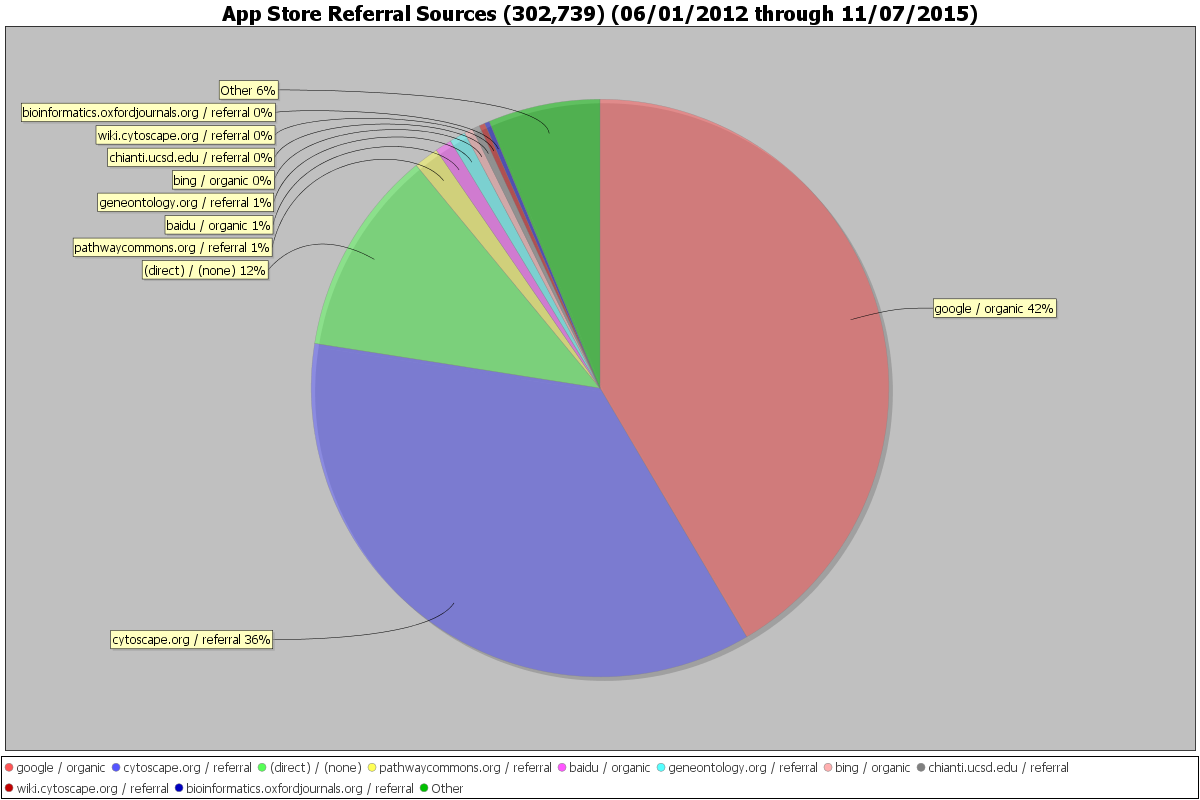
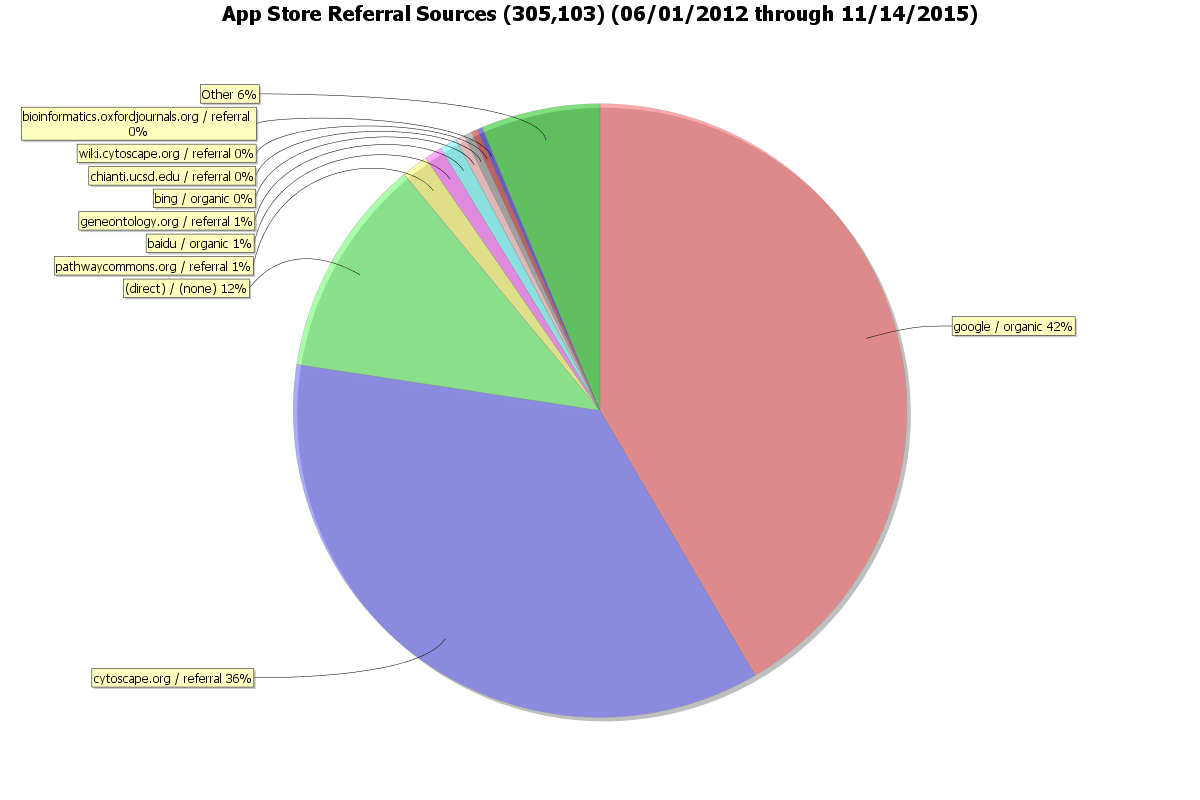
Merge origin/master
Conflicts:
	GAVisualizer/src/gavisualizer/GAVisualizer.java
	GAVisualizer/src/gavisualizer/GoogleApiManager.java

diff --git a/GAVisualizer/src/gavisualizer/LineChart.java b/GAVisualizer/src/gavisualizer/LineChart.java
@@ -11,6 +11,8 @@ import java.io.IOException;
 import java.awt.BasicStroke;
 import java.awt.Color;
 import java.awt.Dimension;
+import java.awt.Paint;
+import java.util.List;
 
 import org.jfree.chart.ChartFactory;
 import org.jfree.chart.ChartPanel;
@@ -22,6 +24,7 @@ import org.jfree.chart.renderer.category.LineAndShapeRenderer;
 import org.jfree.data.category.CategoryDataset;
 import org.jfree.data.category.DefaultCategoryDataset;
 import org.jfree.chart.ChartUtilities;
+import org.jfree.chart.renderer.AbstractRenderer;
 
 /**
  *
@@ -54,11 +57,39 @@ public class LineChart implements IChart {
             false                      // urls
         );
 
-        chart.setBackgroundPaint(Color.white);
+        chart.setBackgroundPaint(Color.white);  
 
         final CategoryPlot plot = (CategoryPlot) chart.getPlot();
-        plot.setBackgroundPaint(Color.lightGray);
-        plot.setRangeGridlinePaint(Color.white);
+        plot.setBackgroundPaint(Color.white);
+        plot.setRangeGridlinePaint(Color.lightGray);
+        plot.setOutlinePaint(Color.white);
+        
+        // customize the line and the stroke width of the series
+        final LineAndShapeRenderer renderer = (LineAndShapeRenderer) plot.getRenderer();
+        ((AbstractRenderer)renderer).setAutoPopulateSeriesStroke(false);
+        renderer.setBaseStroke(new BasicStroke(3));
+        
+        // include dashed lines if necessary
+        List<String> rows = _dataset.getRowKeys();
+        if(rows.get(rows.size()-1).endsWith("Downloads"))
+        {
+            int start = _dataset.getRowCount() / 2;
+            int init = 0;
+            while(start <= _dataset.getRowCount())
+            {
+                renderer.setSeriesStroke(start, 
+                        new BasicStroke(
+                        3, BasicStroke.CAP_ROUND, BasicStroke.JOIN_ROUND, 
+                        1.0f, new float[] {10.0f, 6.0f}, 0.0f
+                        ));
+                Paint p = renderer.getItemPaint(init, 1);
+                renderer.setSeriesPaint(start, p);
+                init++;
+                start++;
+            }
+        } 
+
+        plot.setRenderer(renderer);
 
         // customise the range axis...
         final NumberAxis rangeAxis = (NumberAxis) plot.getRangeAxis();

diff --git a/GAVisualizer/src/gavisualizer/GAVisualizer.java b/GAVisualizer/src/gavisualizer/GAVisualizer.java
@@ -142,7 +142,6 @@ public class GAVisualizer {
         }
     }
 
-    //NOTE! I created one method for this so we don't repeat it unnecessarily (George) 
     private static PieDataset createPieDataset(GaData raw)
     {
         DefaultPieDataset result = new DefaultPieDataset();
@@ -306,7 +305,6 @@ public class GAVisualizer {
         return "Top App Store Attractions by Category (" + getTotal(raw) + ") (" + formatDate(raw.getQuery().getStartDate()) + " through " + formatDate(raw.getQuery().getEndDate()) + ")";
     }
     
-    //NOTE! I added this to reduce redundancy. I will add to SDD and the two below (George)
     private static String getTotal(GaData raw)
     {
         NumberFormat nf = NumberFormat.getInstance();
@@ -322,7 +320,6 @@ public class GAVisualizer {
         return nf.format(total);
     }
     
-    //NOTE! I added this to format dates different than GA keeps them (George)
     private static String formatDate(String date)
     {
         //create a format to read Google Analytics date format
@@ -344,7 +341,6 @@ public class GAVisualizer {
         return write.format(d);
     }
     
-    //NOTE! I added this to format year different than GA keeps them (George)
     private static String getYear(String date)
     {
         //create a format to read Google Analytics date format

diff --git a/GAVisualizer/src/gavisualizer/PieChart.java b/GAVisualizer/src/gavisualizer/PieChart.java
@@ -5,6 +5,7 @@
  */
 package gavisualizer;
 
+import java.awt.Color;
 import java.io.File;
 import java.io.IOException;
 import org.jfree.chart.ChartFactory;
@@ -36,14 +37,16 @@ public class PieChart implements IChart {
     {
         JFreeChart chart = ChartFactory.createPieChart(_title,          // chart title
             _dataset,                // data
-            true,                   // include legend
-            true,
+            false,                   // include legend
+            false,
             false);
-
+        
         PiePlot  plot = (PiePlot) chart.getPlot();
         plot.setDirection(Rotation.CLOCKWISE);
         plot.setForegroundAlpha(0.5f);
+        plot.setBackgroundPaint(Color.WHITE);
         plot.setLabelGenerator(new StandardPieSectionLabelGenerator("{0} {2}"));
+        plot.setOutlinePaint(Color.white);
         
         _chart = chart;
     }
